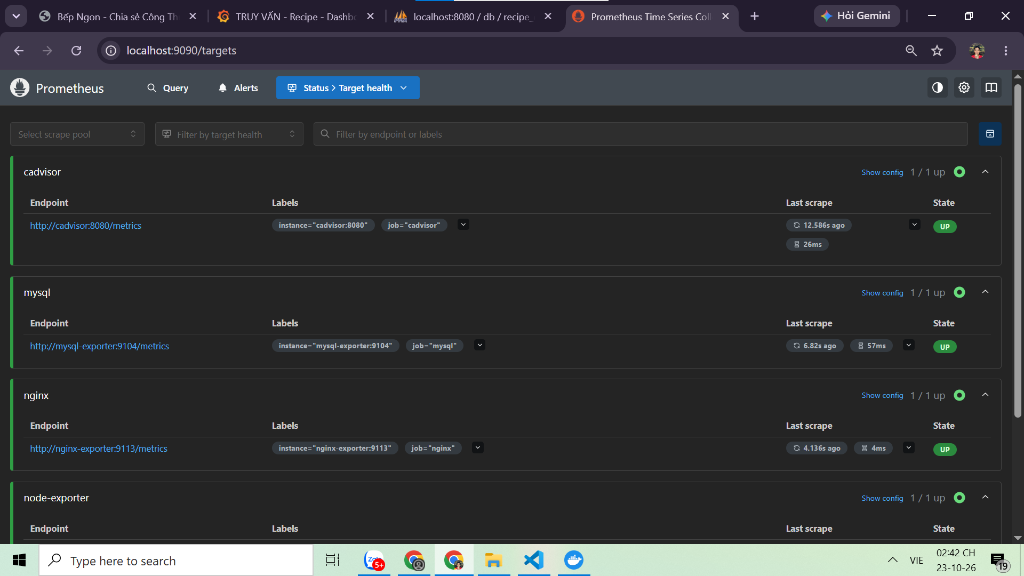
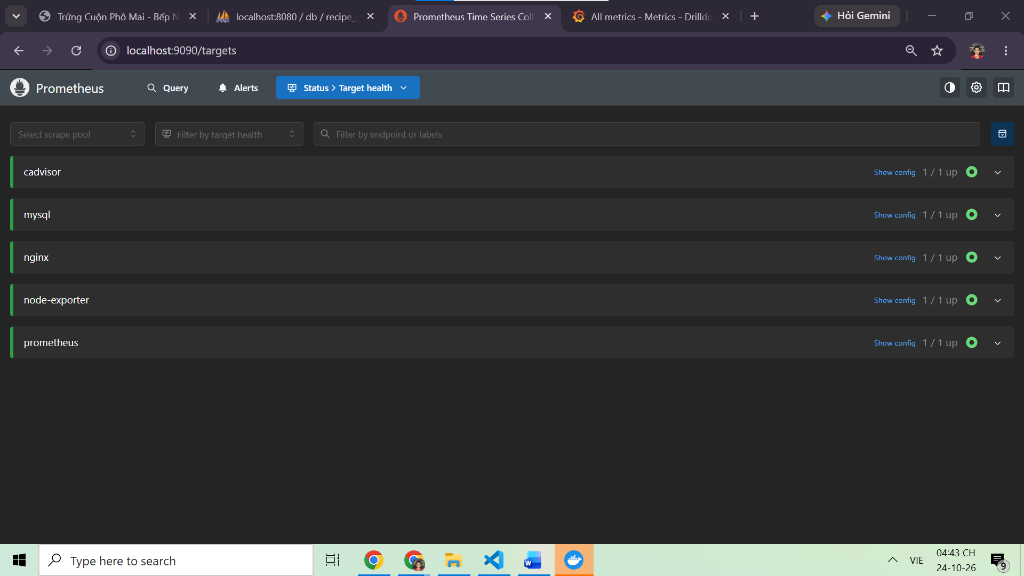
docs: cap nhat tron ven 7 anh minh chung he thong, nhung vao bao cao va README

diff --git a/report/BAO_CAO_THUC_HANH_CHI_TIET.md b/report/BAO_CAO_THUC_HANH_CHI_TIET.md
@@ -244,13 +244,8 @@ add_header Content-Security-Policy "default-src 'self' 'unsafe-inline' 'unsafe-e
 <!-- TRANG 11: CHƯƠNG 3 (MINH CHỨNG HTTPS & HEADERS) -->
 ### 3.4. Minh chứng kiểm thử chuyển hướng HTTP và Security Headers
 
-```
-[HÌNH 3.1: Kiểm thử cơ chế chuyển hướng HTTP sang HTTPS bằng cURL - Yêu cầu chụp rõ: Lệnh curl.exe -I http://localhost:8000 hiển thị mã trạng thái HTTP/1.1 301 Moved Permanently cùng tiêu đề Location: https://localhost/]
-```
-
-```
-[HÌNH 3.2: Kiểm tra các Security Headers bằng cURL - Yêu cầu chụp rõ: Lệnh curl.exe -k -I https://localhost trả về mã trạng thái HTTP/1.1 200 OK và hiển thị đầy đủ 4 tiêu đề X-Frame-Options, X-Content-Type-Options, Referrer-Policy, Content-Security-Policy]
-```
+![HÌNH 3.1 & 3.2: Kiểm thử cơ chế chuyển hướng HTTP sang HTTPS và các Security Headers](../screenshots/07_nginx_security_headers.png)  
+*Hình 3.1 & 3.2: Kết quả cURL kiểm tra chuyển hướng HTTP 301 sang HTTPS, giấu phiên bản máy chủ (server_tokens off) và nạp đầy đủ các Security Headers.*
 
 \newpage
 
@@ -413,15 +408,10 @@ Dashboard "TRUY VẤN" được thiết kế chuyên biệt cho việc kiểm tr
 \newpage
 
 <!-- TRANG 18: CHƯƠNG 4 (MINH CHỨNG LOGQL) -->
-### 4.7. Minh chứng thực thi 4 câu truy vấn LogQL trên Grafana Explore
+### 4.7. Minh chứng thực thi các câu truy vấn LogQL trên Grafana Explore
 
-```
-[HÌNH 4.4: Kết quả thực thi LogQL Truy vấn 1 & Truy vấn 2 trên Grafana Explore - Yêu cầu chụp rõ: Truy vấn {container="recipe_web"} hiển thị log PHP và truy vấn {container="recipe_nginx"} |= "GET" hiển thị log Access Nginx]
-```
-
-```
-[HÌNH 4.5: Kết quả thực thi LogQL Truy vấn 3 & Truy vấn 4 trên Grafana Explore - Yêu cầu chụp rõ: Truy vấn {container=~"recipe_.*"} |~ "(?i)error" bôi đỏ từ khóa lỗi và biểu đồ Graph của truy vấn rate({container="recipe_nginx"}[1m])]
-```
+![HÌNH 4.4 & 4.5: Kết quả thực thi LogQL trên Grafana Explore](../screenshots/06_loki_logql.png)  
+*Hình 4.4 & 4.5: Màn hình Grafana Explore truy vấn nhật ký tập trung từ Loki bằng ngôn ngữ LogQL.*
 
 \newpage
 

diff --git a/README.md b/README.md
@@ -52,7 +52,9 @@ recipe-devops/
 │   ├── 02_admin_dashboard.png          # Bảng điều khiển quản trị & DevOps Hub
 │   ├── 03_grafana_truy_van.png         # Dashboard TRUY VẤN trên Grafana
 │   ├── 04_phpmyadmin.png               # Quản trị CSDL recipe_db trên phpMyAdmin
-│   └── 05_prometheus_targets.png       # Trạng thái 5/5 Targets UP trên Prometheus
+│   ├── 05_prometheus_targets.png       # Trạng thái 5/5 Targets UP trên Prometheus
+│   ├── 06_loki_logql.png               # Truy vấn LogQL nhật ký tập trung trên Loki
+│   └── 07_nginx_security_headers.png   # Kiểm tra chuyển hướng 301 & Security Headers
 │
 ├── grafana/                            # Cấu hình Grafana
 │   ├── dashboards/                     # Dashboards giám sát
